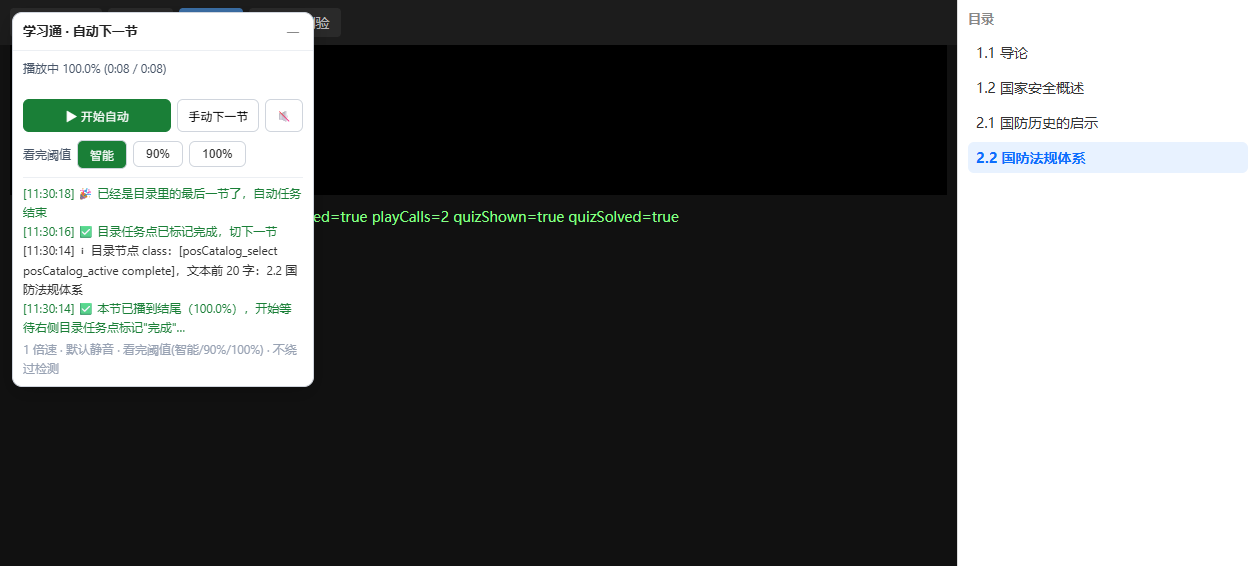
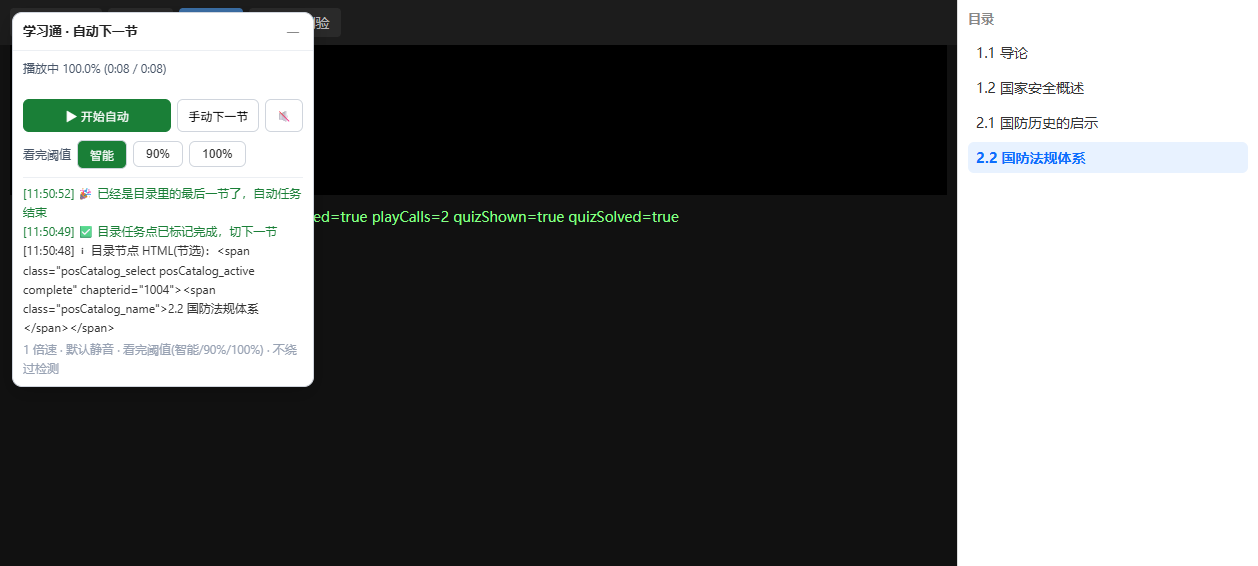
v1.3.10 增强智能模式诊断日志（自动打印目录节点 class + HTML 节选）

Changed region(s): [[0.0, 0.3905, 0.248, 0.6007], [0.031, 0.3304, 0.062, 0.3604]]

diff --git a/chaoxing-auto-next.user.js b/chaoxing-auto-next.user.js
@@ -1,7 +1,7 @@
 // ==UserScript==
 // @name         超星学习通 · 自动播放 + 播完自动下一节
 // @namespace    workbuddy.chaoxing.autonext
-// @version      1.3.9
+// @version      1.3.10
 // @description  自动播放当前章节的视频；播放完成后自动点击右侧目录的下一节并继续播放。不加速、不绕过平台的防挂机检测（视频内弹出的单选/多选题会自动尝试作答，多选暴力枚举组合）。
 // @author       WorkBuddy
 // @match        *://*.chaoxing.com/mycourse/studentstudy*
@@ -601,6 +601,13 @@
       return;
     }
     if (Date.now() - completingSince > CFG.TASK_DONE_MAXWAIT_MS) {
+      /* 兜底切换前，再打一次当前目录节点状态，便于校准：若你这版超星完成任务点的"标记"长这样，把这段发我即可 */
+      const ns = catalogNodes();
+      const ai = activeIndex(ns);
+      if (ai >= 0) {
+        log('ℹ 超时兜底时节点 class：[' + (ns[ai].className || '') + ']，HTML(节选)：' +
+            ((ns[ai].outerHTML || '').replace(/\s+/g, ' ').trim().slice(0, 400)), 'warn');
+      }
       log('⚠ 等 ' + (CFG.TASK_DONE_MAXWAIT_MS / 1000) + ' 秒仍未能从目录确认任务点完成（可能选择器不匹配你的超星版本），按安全兜底切下一节', 'warn');
       doSwitch();
       return;
@@ -693,12 +700,14 @@
           completing = true;
           completingSince = Date.now();
           log('✅ 本节已播到结尾（' + pct + '%），开始等待右侧目录任务点标记"完成"…', 'ok');
-          /* 打印当前目录节点的 class，便于校准"完成态"选择器（若检测不生效，把这两行发我） */
+          /* 打印当前目录节点的 class + HTML 节选，便于校准"完成态"选择器（若检测不生效，把这几行发我即可） */
           const ns = catalogNodes();
           const ai = activeIndex(ns);
           if (ai >= 0) {
-            log('ℹ 目录节点 class：[' + (ns[ai].className || '') + ']，文本前 20 字：' +
-                (ns[ai].textContent || '').replace(/\s+/g, ' ').trim().slice(0, 20), 'info');
+            const nd = ns[ai];
+            log('ℹ 目录节点 class：[' + (nd.className || '') + ']，文本前 20 字：' +
+                (nd.textContent || '').replace(/\s+/g, ' ').trim().slice(0, 20), 'info');
+            log('ℹ 目录节点 HTML(节选)：' + ((nd.outerHTML || '').replace(/\s+/g, ' ').trim().slice(0, 400)), 'info');
           }
         }
         return; /* 交给 handleCompleting 轮询 */

diff --git a/安装与使用说明.md b/安装与使用说明.md
@@ -68,7 +68,7 @@
 - **不要一次刷太猛**。连着刷几十节容易触发平台风控。建议分批、间隔着来。
 - **遇到章节测验/作业，脚本会停下来**等你自己做；做完再点"手动下一节"或等它继续。
 - 超星偶尔改版（前端结构变化），目录/视频选择器可能失效。若面板报"没找到右侧课程目录"，多半是改版了，告诉我，我再更新选择器。
-- **关于"检测任务点完成再跳"**：这是面板上 **智能** 模式的行为——视频播到结尾后，脚本等右侧目录里本节的"任务点"被平台标记为完成后才切下一节（不再只靠猜百分比），能自动适配"要求全部看完"的视频。判定的"完成态"用的是超星目录节点上的一组 class（complete/finish/over 等）和对勾字符兜底。若你的超星版本 class 不同，日志会出现「等 20 秒仍未能从目录确认任务点完成…按安全兜底切下一节」——把那附近日志里的「目录节点 class：[…]」那行发我，我据此校准选择器即可，无需你改代码。若你更想要"到点就跳、不等确认"，切到 **90%** 或 **100%** 模式即可。
+- **关于"检测任务点完成再跳"**：这是面板上 **智能** 模式的行为——视频播到结尾后，脚本等右侧目录里本节的"任务点"被平台标记为完成后才切下一节（不再只靠猜百分比），能自动适配"要求全部看完"的视频。判定的"完成态"用的是超星目录节点上的一组 class（complete/finish/over 等）和对勾字符兜底。**如果你的超星版本 class 不同**，智能模式会退化为"等 20 秒兜底切走"（不影响使用，只是每节多等 ≤20 秒）。此时**无需你改代码**——脚本在日志里会自动打印「目录节点 class：[…]」和「目录节点 HTML(节选)：…」两行，把这两行（以及"超时兜底时节点 class"那行）发我，我据此校准选择器即可。若你更想要"到点就跳、不等确认"，切到 **90%** 或 **100%** 模式即可。
 
 ---
 
@@ -100,6 +100,7 @@
 
 ## 七、版本更新
 
+- **v1.3.10**（2026-10-12）：增强智能模式诊断日志——进入"等待任务点完成"时自动打印当前目录节点的 `class` 与 `HTML(节选)`，20 秒兜底切换前再打印一次节点状态。目的是让你**无需手动 F12**，跑一次就能把校准"完成态选择器"所需的真实 DOM 发我。切换逻辑不变（已验证路径不受影响）。
 - **v1.3.9**（2026-10-12）：「看完阈值」改为三选一——**智能**（默认，播到结尾后等右侧目录任务点标记「完成」才切，最多等 20 秒兜底）/ **90%**（进度≥90% 直接切）/ **100%**（播到结尾直接切）。修复"视频播完且已进入 paused 态"时轮询恰好漏触发导致卡住的边界问题。
 - **v1.3.8**（2026-10-12）：新增"检测任务点完成再跳"——视频播到结尾后轮询右侧目录，等任务点被平台标记「完成」才切（最多等 20 秒兜底），不再只靠猜百分比，解决"要求全部看完"的视频任务点仍判未完成的问题。
 - **v1.3.7**（2026-10-11）：弹题作答改为"提交后 2.7 秒无反馈就换下一组重提交"（单选/多选通用），不再傻等 8 秒手动作答。
